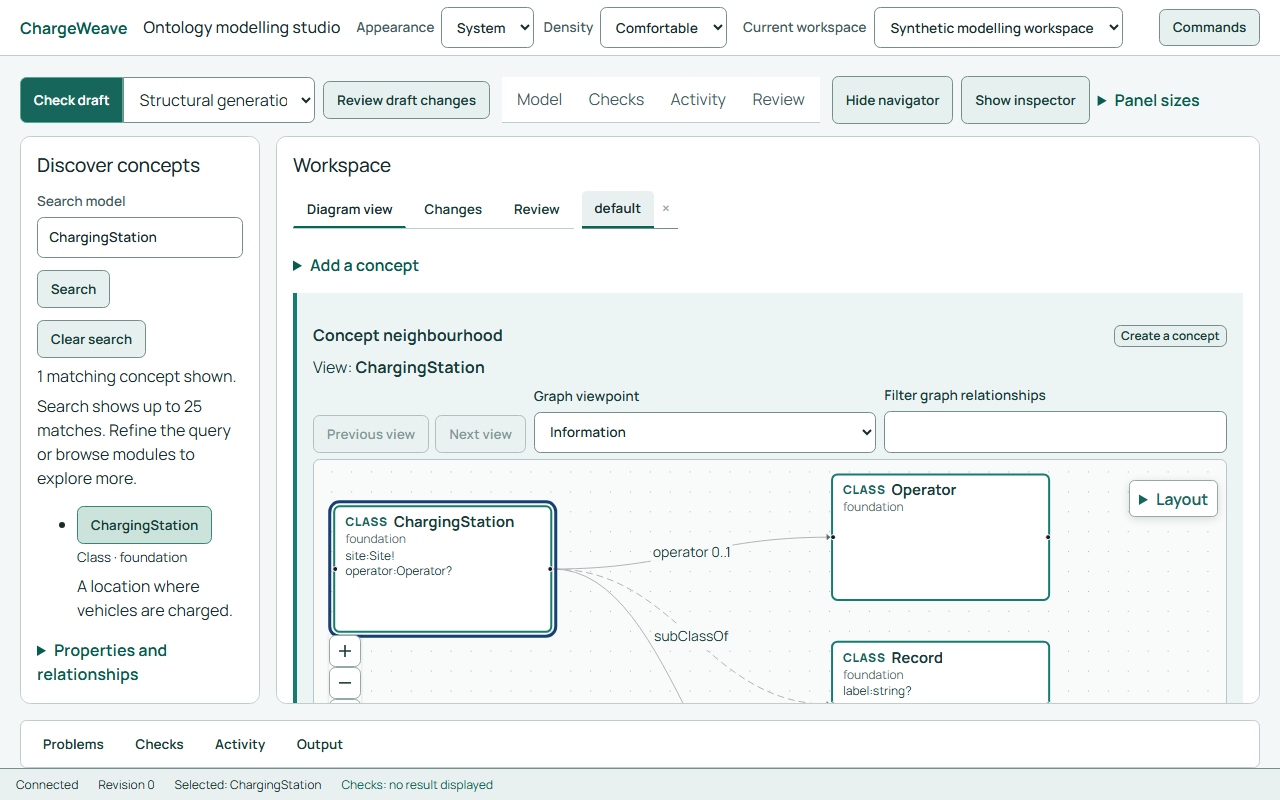
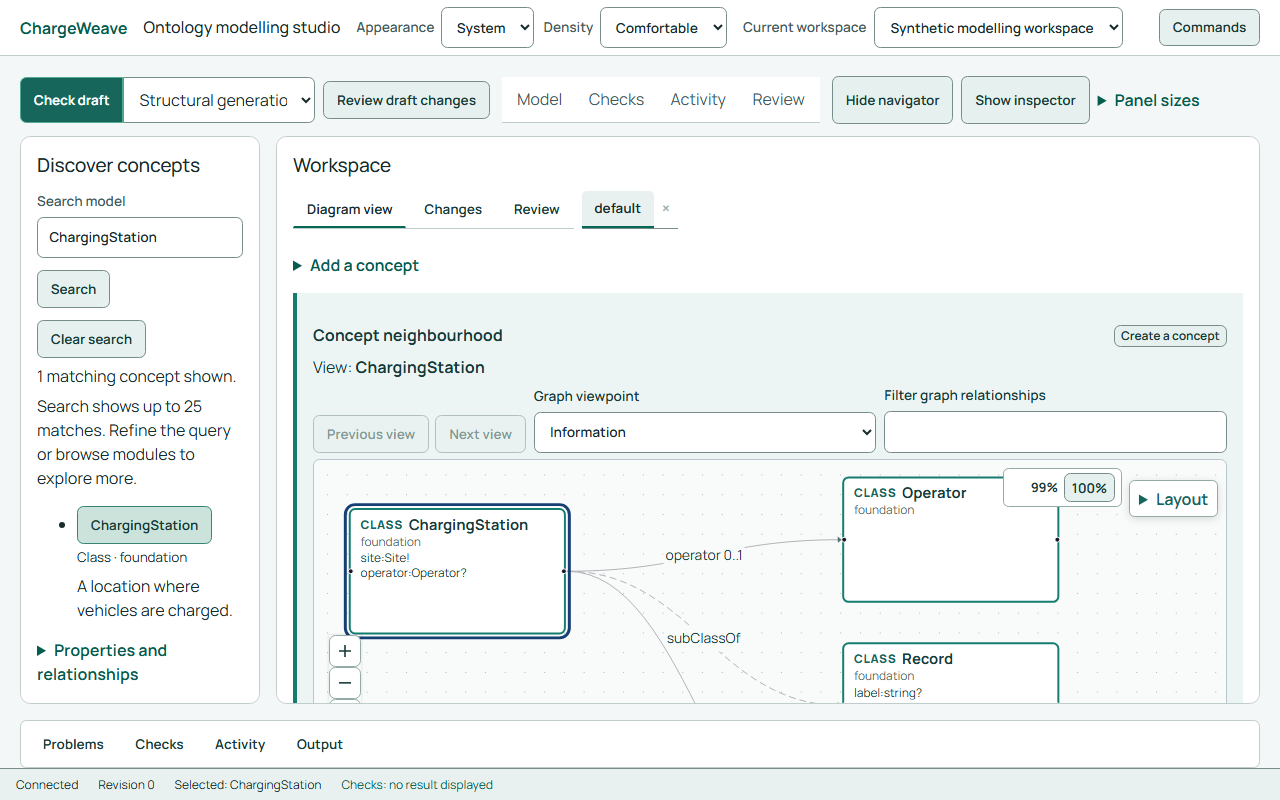
Refresh modelling studio visual evidence
Capture the current compact list-first layout and desktop views from the isolated synthetic workspace. Record that the 320-pixel list requires scrolling and that the captures do not establish independent usability acceptance.

diff --git a/evidence/ontology-studio/ide/README.md b/evidence/ontology-studio/ide/README.md
@@ -1,12 +1,12 @@
 # Synthetic studio visual evidence
 
-These captures show the actual built modelling studio after selecting the synthetic `ChargingStation` concept in an isolated in-memory workspace. They were captured with headless Chromium 153 on Windows, using the working tree based on commit `f596f8b0abe0befe2cba4e49bc936ec34596b730` plus the compact tab, selected-navigation hover and diagram-legend contrast fixes committed with this evidence. They contain no real credentials or customer data.
+The `connected` captures show the built modelling studio after selecting the synthetic `ChargingStation` concept in an isolated in-memory workspace. They were recaptured on 2026-11-03 with headless Chromium 153 on Windows from commit `470c8472c8d8b8eb07431f3128695de5a066ed13`. They contain no real credentials or customer data.
 
 Each `connected-{width}-{theme}.png` records the named CSS viewport width and light or dark system appearance. Desktop captures use 1280×800 and 1920×1080; compact captures use 390×844 and 320×800. The compact diagram and relationship list are opened and the page is scrolled by those interactions, so the screenshots are not the initial top of the mobile page. Reduced motion was requested for capture.
 
 To reproduce, build the website and run `node scripts/capture-studio-evidence.mjs` from `website` with Playwright Chromium installed. The script creates a temporary loopback service and in-memory synthetic workspace and does not use an existing workspace database.
 
-The visual review identified and fixed broken word wrapping in the 320px document tabs, low contrast on the selected compact-navigation hover state, and low contrast in the diagram legend in dark mode. The compact captures still require scrolling to reach the full diagram and list.
+An earlier visual review identified and fixed broken word wrapping in the 320px document tabs, low contrast on the selected compact-navigation hover state, and low contrast in the diagram legend in dark mode. In the updated captures, the relationship list starts open. At 320px its heading is near the fixed status bar and scrolling is needed to read the list; at both compact widths scrolling is needed to reach the full diagram. These screenshots do not establish independent usability acceptance.
 
 The additional `welcome`, `relationship-editor`, `problems` and `review` images capture light and dark views at 1280×800 and 1920×1080 from a separate in-memory synthetic workspace. The failed check and its output are simulated. These were recaptured using the working tree based on `347b602eff16120483324f09da4aae4bf560800e` plus the welcome-card changes committed with them. After building, run `node scripts/capture-studio-workflows.mjs` from `website` for 1280px or add `--wide` for 1920px. The inspector table retains readable column widths with keyboard-accessible horizontal scrolling; its actions may require scrolling. Some screenshots show a scrolled position reached during the scenario.
 
